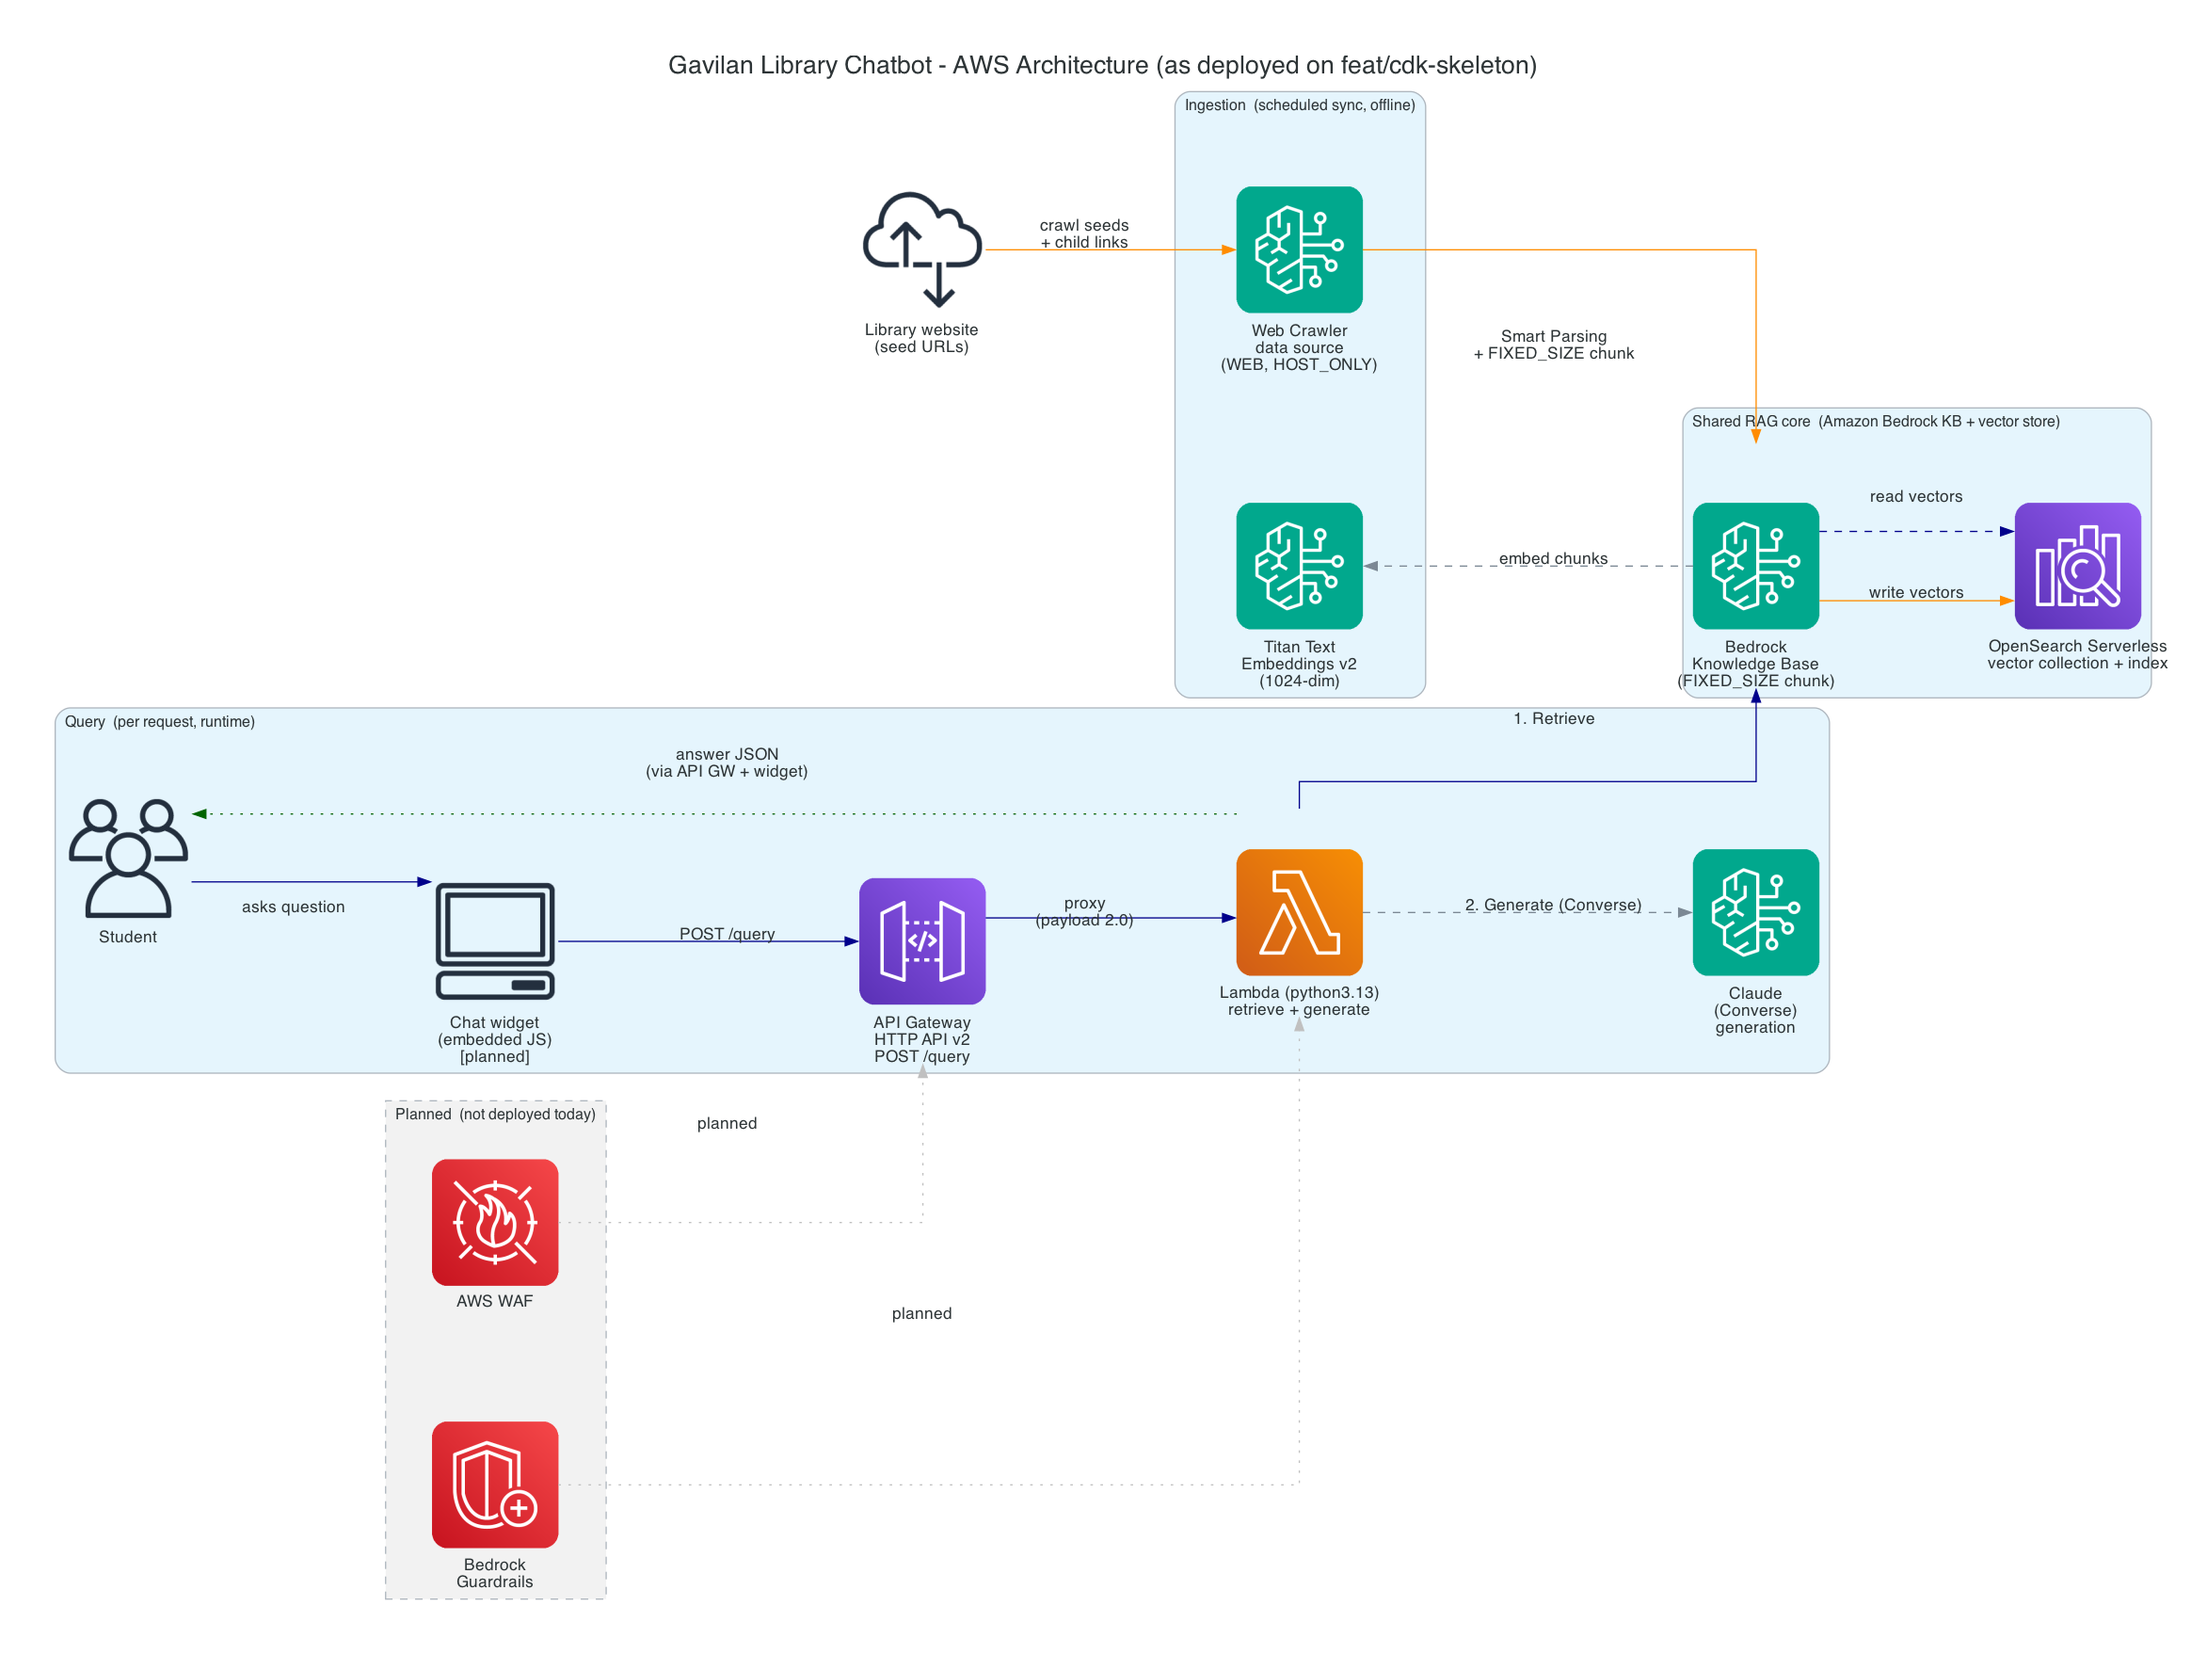
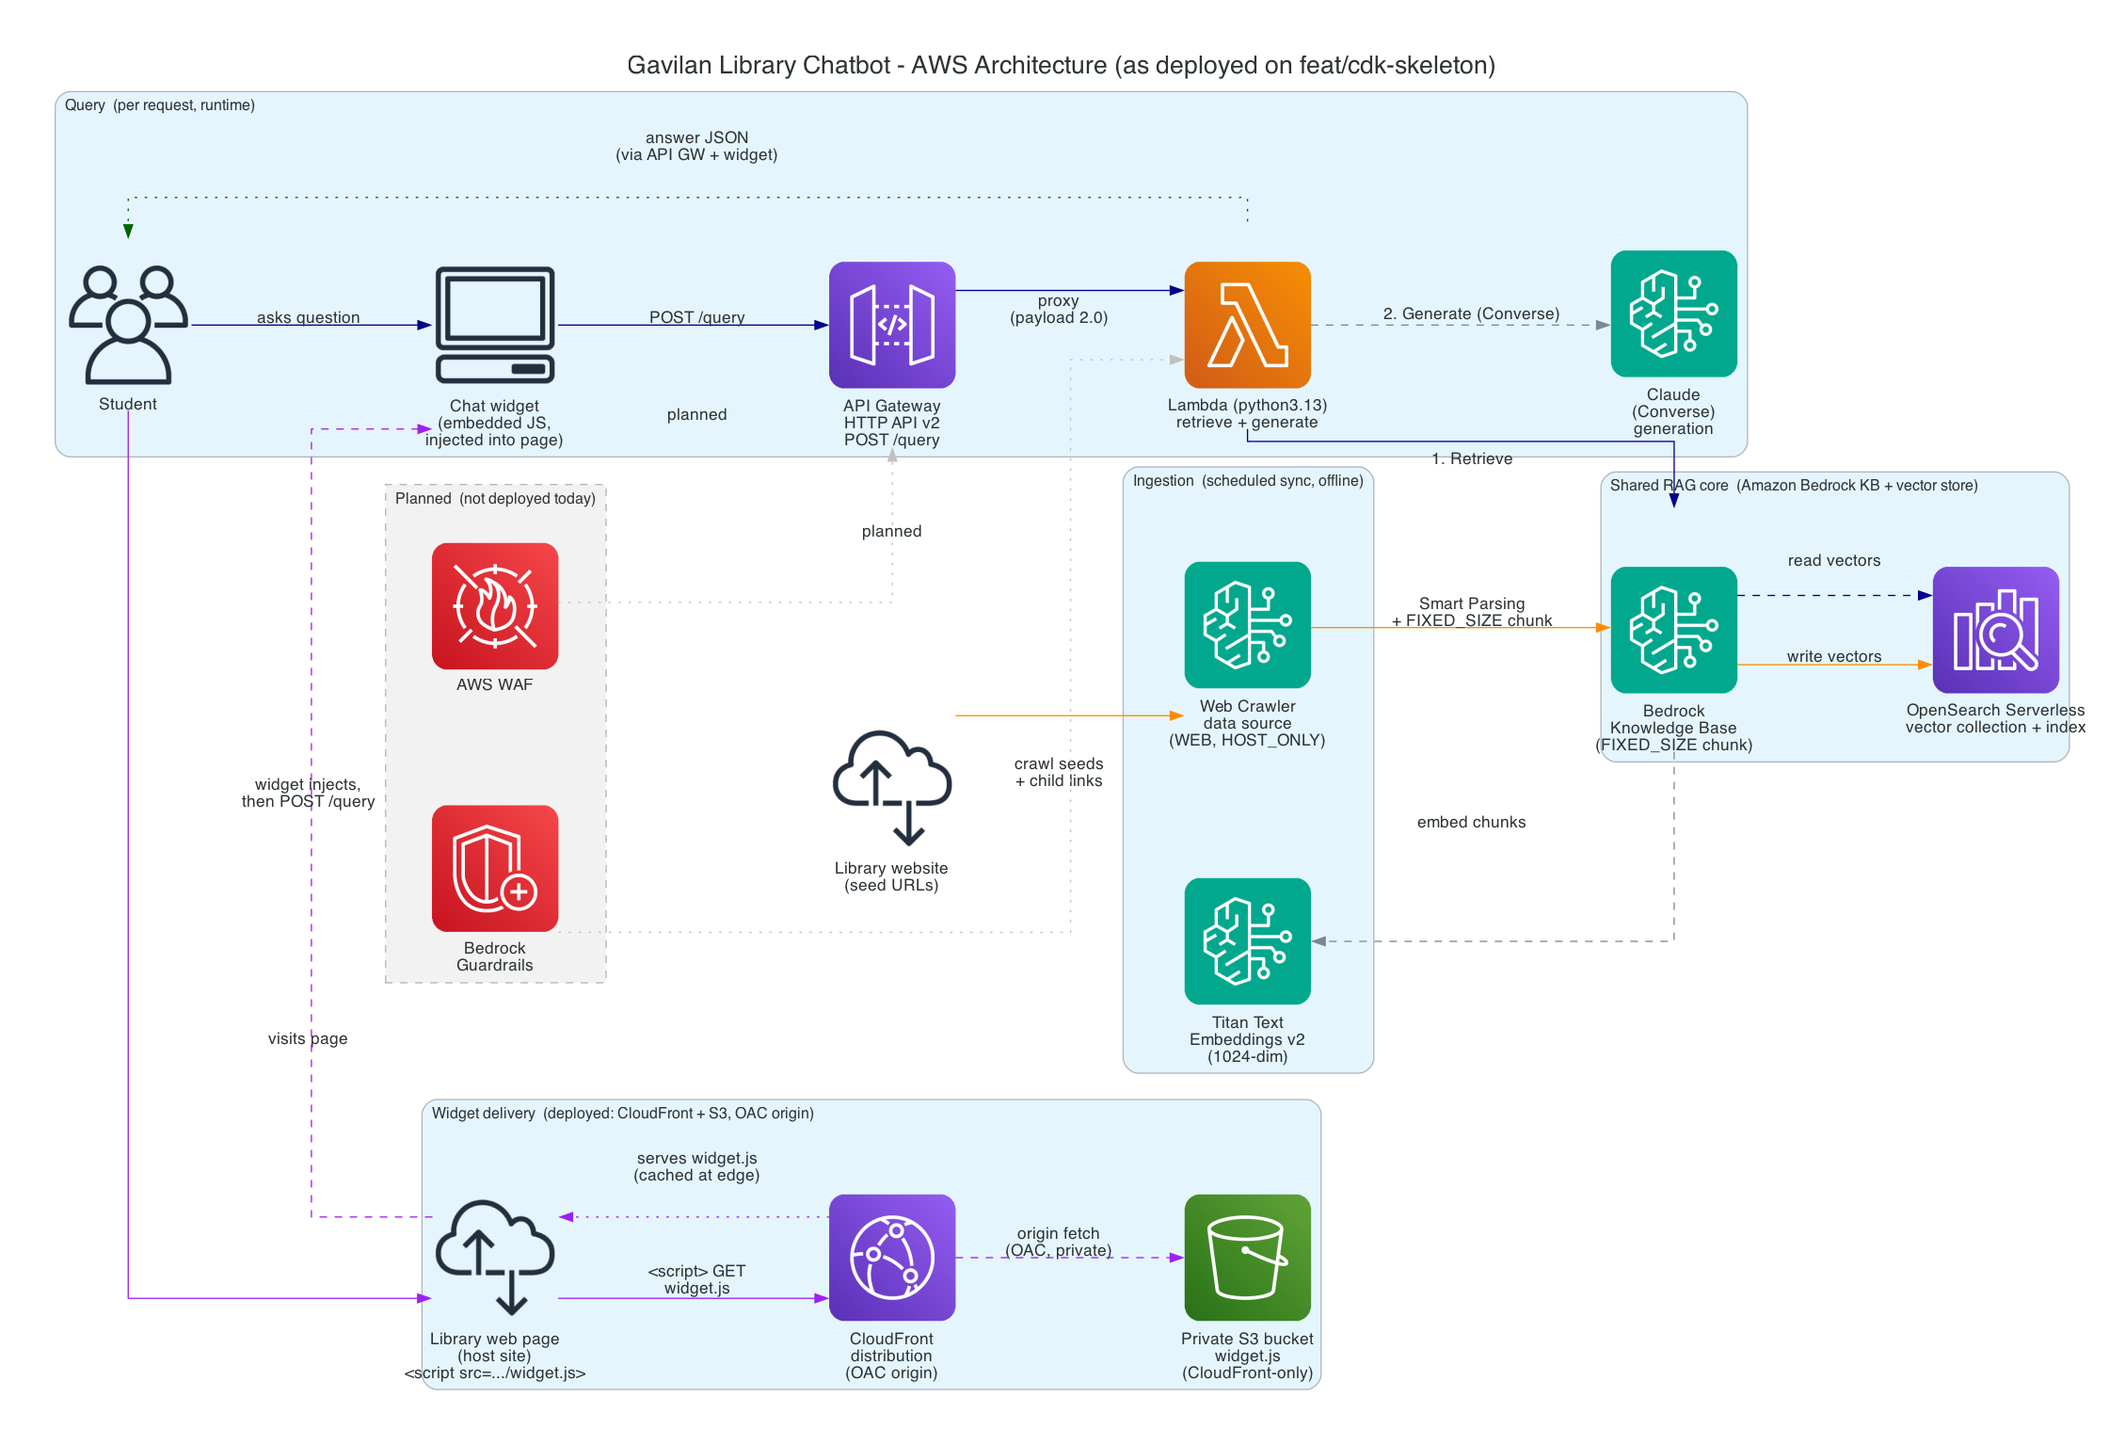
docs: update cdk diagram with S3 and CloudFront

diff --git a/docs/architecture_diagram.py b/docs/architecture_diagram.py
@@ -21,10 +21,16 @@ from memory:
   - Query path: API Gateway HTTP API v2 (POST /query) -> Lambda python3.13. The handler
     does step 1 Retrieve (KB Retrieve) then step 2 Generate (Bedrock Converse to
     anthropic.claude-3-5-haiku-20241022-v1:0).
+  - Widget delivery: private S3 bucket (widget.js) fronted by a CloudFront distribution
+    with an OAC-secured origin, plus a BucketDeployment that uploads widget.js. Built in
+    THIS stack (infra/infra/infra_stack.py: WidgetBucket, WidgetDistribution,
+    S3BucketOrigin.with_origin_access_control). This is a SEPARATE concern from the query
+    path: CloudFront + S3 deliver the widget CODE to the browser; the injected widget then
+    uses the existing API Gateway query path for actual questions.
 
-NOT deployed today, so shown only in a distinct "Planned" group (per the stack docstring
-"NOT wired here yet: ... Bedrock Guardrails, the widget, WAF, and auth"): Guardrails, WAF.
-The chat widget (frontend/ is empty) is drawn as an external client marked planned.
+NOT deployed today, so shown only in a distinct "Planned" group (per the stack docstring):
+Guardrails, WAF. Widget hosting IS built now, so the widget and its CDN are drawn as real
+current components (not planned).
 """
 
 import os
@@ -34,8 +40,9 @@ from diagrams.aws.analytics import ElasticsearchService  # OpenSearch/Elasticsea
 from diagrams.aws.compute import Lambda
 from diagrams.aws.general import Client, InternetAlt1, Users
 from diagrams.aws.ml import Bedrock
-from diagrams.aws.network import APIGateway
+from diagrams.aws.network import APIGateway, CloudFront
 from diagrams.aws.security import Shield, WAF
+from diagrams.aws.storage import S3
 
 # Write the PNG next to this file (docs/) regardless of the current working directory.
 _OUTPUT = os.path.join(os.path.dirname(os.path.abspath(__file__)), "architecture_diagram")
@@ -45,6 +52,7 @@ INGEST = Edge(color="darkorange")          # ingestion data flow
 QUERY = Edge(color="darkblue")             # query request flow
 MODEL_CALL = Edge(style="dashed")          # a Bedrock foundation-model invocation
 RESPONSE = Edge(color="darkgreen", style="dotted")  # response back to the user
+DELIVERY = Edge(color="purple")            # widget-code delivery (CloudFront + S3)
 PLANNED = Edge(color="gray", style="dotted", label="planned")
 
 graph_attr = {"fontsize": "20", "labelloc": "t", "pad": "0.5", "nodesep": "0.8", "ranksep": "1.1"}
@@ -73,10 +81,17 @@ with Diagram(
 
     with Cluster("Query  (per request, runtime)"):
         student = Users("Student")
-        widget = Client("Chat widget\n(embedded JS)\n[planned]")
+        widget = Client("Chat widget\n(embedded JS,\ninjected into page)")
         api = APIGateway("API Gateway\nHTTP API v2\nPOST /query")
         query_fn = Lambda("Lambda (python3.13)\nretrieve + generate")
         claude = Bedrock("Claude\n(Converse)\ngeneration")
+
+    # Widget CODE delivery. SEPARATE concern from the query flow above: CloudFront + S3
+    # ship widget.js to the browser; the injected widget then rides the query path.
+    with Cluster("Widget delivery  (deployed: CloudFront + S3, OAC origin)"):
+        host_page = InternetAlt1("Library web page\n(host site)\n<script src=.../widget.js>")
+        cdn = CloudFront("CloudFront\ndistribution\n(OAC origin)")
+        widget_bucket = S3("Private S3 bucket\nwidget.js\n(CloudFront-only)")
 
     with Cluster("Planned  (not deployed today)", graph_attr={"style": "dashed", "bgcolor": "gray95"}):
         waf = WAF("AWS WAF")
@@ -99,6 +114,15 @@ with Diagram(
 
     # --- Response back to the user ---
     query_fn >> Edge(color="darkgreen", style="dotted", label="answer JSON\n(via API GW + widget)") >> student
+
+    # --- Widget delivery flow: how the widget CODE reaches the browser (purple) ---
+    # Separate from the query flow: this ships widget.js; the injected widget then queries.
+    student >> Edge(color="purple", label="visits page") >> host_page
+    host_page >> Edge(color="purple", label="<script> GET\nwidget.js") >> cdn
+    cdn >> Edge(color="purple", style="dashed", label="origin fetch\n(OAC, private)") >> widget_bucket
+    cdn >> Edge(color="purple", style="dotted", label="serves widget.js\n(cached at edge)") >> host_page
+    # The delivered widget injects into the host page and then uses the EXISTING query path.
+    host_page >> Edge(color="purple", style="dashed", label="widget injects,\nthen POST /query") >> widget
 
     # --- Planned components (drawn distinct; no real traffic today) ---
     waf >> Edge(color="gray", style="dotted", label="planned") >> api
